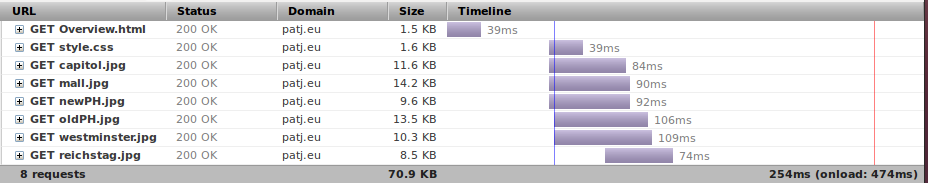
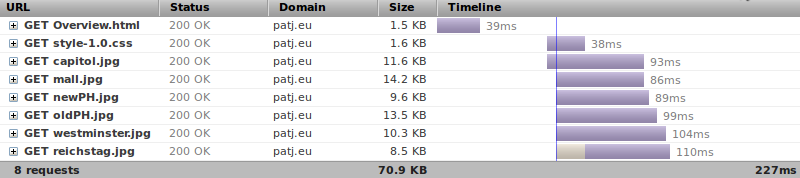
Fixed the explanation document

diff --git a/week5/index.html b/week5/index.html
@@ -43,7 +43,7 @@ I also replaced XHTML strict doctype with shorter HTML5 doctype <tt>&lt;!DOCTYPE
 <p>I also shortened the name of two images (<tt>palace-of-westminster.jpg</tt> to <tt>westminster.jpg</tt>
 and <tt>parliament-building-reichstag.jpg</tt> to <tt>reichstag.jpg</tt>.</p>
 
-<p>Nevertheless <tt>width</tt> and <tt>height</tt> declaration for each image is kept, despite it is not as critical to keep it in a non-mobile context.</p>
+<p>Nevertheless, <tt>width</tt> and <tt>height</tt> declaration for each image are kept, despite it is not as critical to keep it in a non-mobile context.</p>
 
 <a href="step1/Overview.html">Web page after step 1</a>
 
@@ -68,12 +68,13 @@ SVG also benefits noticeably from additional compression while JPG don't.</p>
 
 <p>First of all, I regrouped the two CSS files into <tt>style.css</tt>.
 While the number of HTTP requests for this single page could be better if the CSS declarations were inlined in the HTML file,
-I choosed to keep it apart because in reality the style would be reused. Furthermore, the CSS file can be put in browser cache.</p>
+I choosed to keep it apart because in reality the stylesheet would typically be reused.
+Furthermore, the CSS file can be put in browser cache and not downloaded again when the content changes.</p>
 
-<p>Secondly, flags images are embedded in the stylesheet as data URI.
+<p>Secondly, flag images are embedded in the stylesheet as data URI.
 To choose the best encoding between base64 and URL-Encoding, I made two files in which I concatenated the four flags to test compression with gzip.
-Intuitively we can hope that the URL encoded version will be smaller after compression depite a bigger original size.
-We can have this intuition because the compression of full text is usually more efficient than the compression of other content.</p>
+Intuitively, we can hope that the URL encoded version will be smaller after compression depite a bigger original size.
+We can have this intuition because the compression of full text is usually more efficient than the compression of non textual data.</p>
 
 <table border="1">
 <caption>Images encoding size comparison</caption>
@@ -98,52 +99,64 @@ We can have this intuition because the compression of full text is usually more 
 </tbody>
 </table>
 
-<p>The intuition is validated, we gain 37% by using URL encoding on SVG images!
-Using only 1.2 KB for 4 full quality country flags isn't bad.</p>
+<p>The intuition is validated, we reduce the size by 37% using URL encoding instead of base64 for SVG images !</p>
 
 <a href="step3/Overview.html">Web page after step 3</a>
 
-<p>US and UK flags are buggy under Firefox 5, but show correctly under Chrome and Opera.</p>
+<p><em>Remark:</em> USA and Australia flags are buggy under Firefox 5, but show correctly under Chrome and Opera.</p>
 
-<h2>Minification</h2>
+<h2>Step 4: Minification</h2>
 
 <p>Now we can minify the web page and the stylesheet to remove spaces, new lines, etc...</p>
-<p>Firstly, I minified CSS class names to one character.</p>
 
 <p>To minify <tt>style.css</tt>, I used <a href="http://tools.w3clubs.com/cssmin/">http://tools.w3clubs.com/cssmin/</a>,
 it reduced file size by 2.16%.</p>
 
 <p>To minify <tt>Overview.html</tt>, I used <a href="http://kangax.github.com/html-minifier/">http://kangax.github.com/html-minifier/</a>,
-which reduced the file by 5.81% with very aggresive optimization (quotes between attribute values are removed).</p>
+which reduced the file by 5.81% with very aggresive optimization (quotes between attribute values are removed which is maybe not standard).</p>
 
 <a href="step4/Overview.html">Web page after step 4</a>
 
-<h2>Compression &amp; caching</h2>
+<h2>Final step: Compression &amp; caching</h2>
 
-<p>I compress statically the web page and stylesheet with gzip with best compression level (<tt>--best</tt> parameter).</p>
+<p>The web page and stylesheet are statically compressed with gzip using the best compression level (<tt>--best</tt> parameter).</p>
 <pre>
 gzip --best Overview.html
-gzip --best style.css
+gzip --best style-1.0.css
 </pre>
 
-<p>The web server used is <a href="http://www.nginx.org">Nginx</a>. To enable serving precompressed files, I compiled Nginx with this option:</p>
+<p>The web server is <a href="http://www.nginx.org">Nginx</a>. To enable serving precompressed files, I compiled Nginx with this option:</p>
 <pre>
 ./configure --with-http_gzip_static_module
 </pre>
-<p>Then I enabled it for the specific directory of the assignement with this in Nginx configuration:</p>
+<p>Then I enabled it for the specific directory of the assignement in Nginx configuration.</p>
+
+<p>The stylesheet file is versionned (<tt>style-1.0.css</tt>) for optimal caching.
+Because we make the commitment to always update the stylesheet by incrementing its version,
+we can set it's expiration date to the end of the world of computers: 31 December 2037 !</p>
+
+<p>Nginx configuration:</p>
 <pre>
-# Enable serving static gzipped files for W3C course
-location        /w3c/mobile/week5/final {
+# W3C Mobile Web course specific configuration
+location        /w3c/mobile {
+
+ # Enable serving static gzipped files
  gzip_static    on;
+
+ # Versionned resources never expire
+ location       ~ ^/w3c/mobile/.+-\d+\.\d+\.(gif|jpg|jpeg|css|js)$ {
+  # max sets the Expires header to 31 December 2037 23:59:59 GMT, and the Cache-Control max-age to 10 years
+  expires       max;
+ }
 }
 </pre>
 
-<a href="final/Overview.html">Web page after step 5</a>
+<a href="final/Overview.html">Web page after final step</a>
 
 <h2>Conclusions</h2>
 
 <p>The following Firebug report of the final version shows that 8 files are loaded for a total of 70.9 KB.</p>
-<p><tt>Overview.html</tt> and <tt>style.css</tt> are served in their own compressed version.</p>
+<p>The <tt>Overview.html</tt> and <tt>style.css</tt> files served are the compressed versions.</p>
 
 <img src="screenshot.png"/>
 
@@ -222,7 +235,7 @@ location        /w3c/mobile/week5/final {
 </tr>
 <tr>
   <td>Final</td>
-  <td>254ms</td>
+  <td>227ms</td>
   <td>1.5 KB</td>
   <td>/</td>
   <td>1.6 KB</td>
